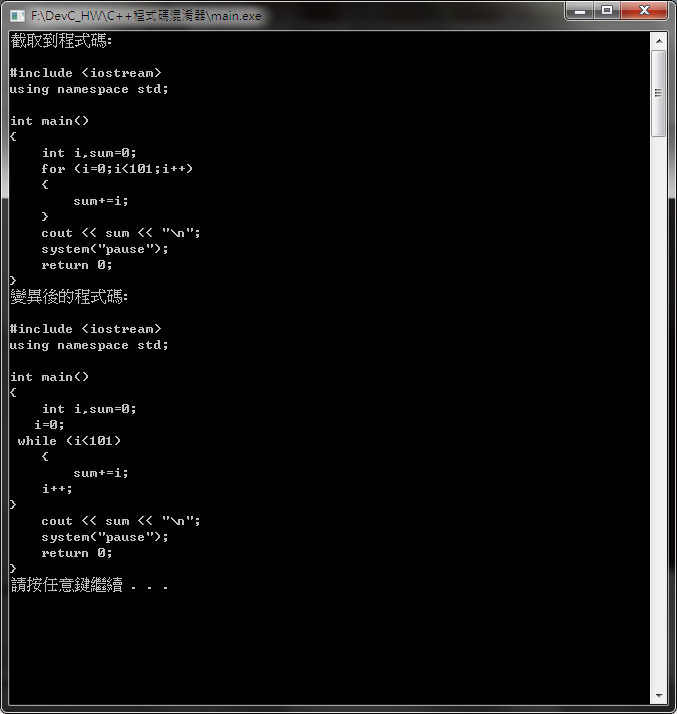
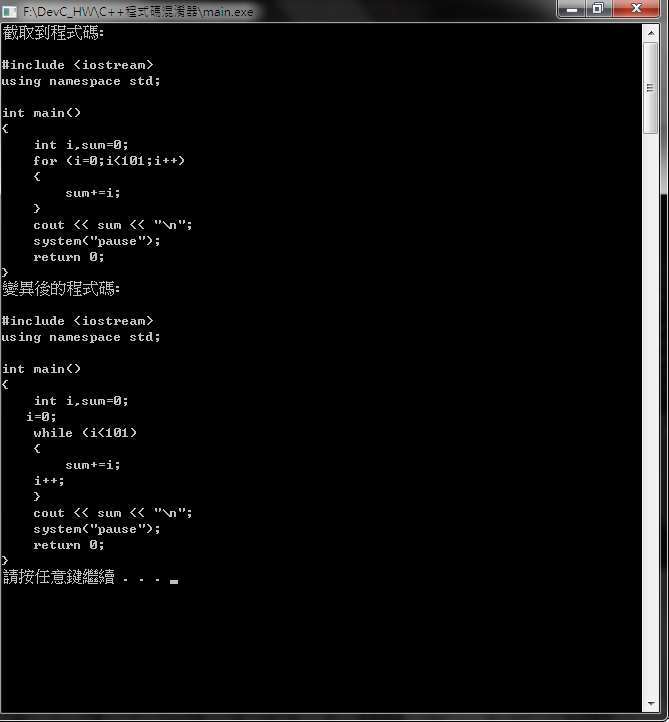
no message

diff --git a/C++程式碼混淆器/main.cpp b/C++程式碼混淆器/main.cpp
@@ -4,6 +4,13 @@
 #include <cstdlib>
 using namespace std;
 
+string GetBlankBefore(string source,int pos)
+{
+	string blank_before_str;
+	for(pos --;source[pos] == ' ';blank_before_str += ' ',pos--);
+	return (blank_before_str);
+}
+
 string GetSource()
 {
 	string temp_str_source;
@@ -13,6 +20,7 @@ string GetSource()
 	fin.close();
 	return (temp_str_source);
 }
+
 void SaveSourceToNew(string OutputContent)
 {
 	ofstream fout("new_source.cpp");
@@ -35,8 +43,8 @@ int main()
     string method_left_content = user_source.substr(pos_left_start + 1, pos_blocksymbol_1 - pos_left_start - 1);
     string method_mid_content = user_source.substr(pos_blocksymbol_1 + 1, pos_blocksymbol_2 - pos_blocksymbol_1 - 1);
 	string method_right_content = user_source.substr(pos_blocksymbol_2 + 1, pos_right_end - pos_blocksymbol_2 - 1);
-	method_right_content.append(";\n");
-	method_left_content.append(";\n");
+	method_right_content.append(";\n" + GetBlankBefore(user_source,pos_current_for_blockend));
+	method_left_content.append(";\n"  + GetBlankBefore(user_source,pos_for -1));
 
 	user_source.insert(pos_current_for_blockend,method_right_content);
     user_source.replace(pos_left_start + 1, pos_right_end - pos_left_start - 1 ,method_mid_content);

diff --git a/C++程式碼混淆器/new_source.cpp b/C++程式碼混淆器/new_source.cpp
@@ -5,11 +5,11 @@ int main()
 {
     int i,sum=0;
    i=0;
- while (i<101)
+    while (i<101)
     {
         sum+=i;
     i++;
-}
+    }
     cout << sum << "\n";
     system("pause");
     return 0;
